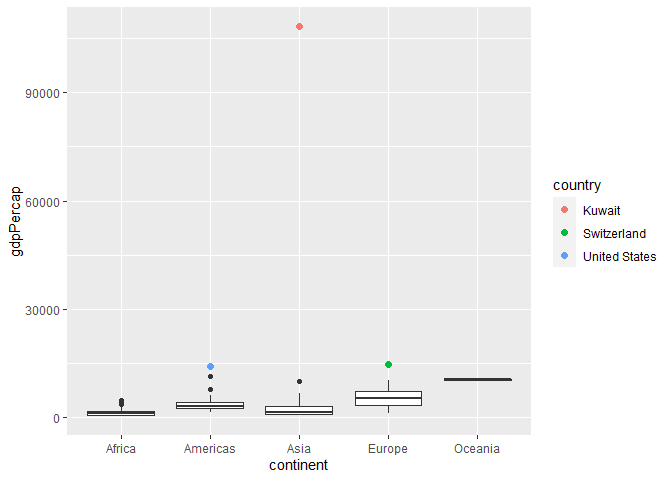
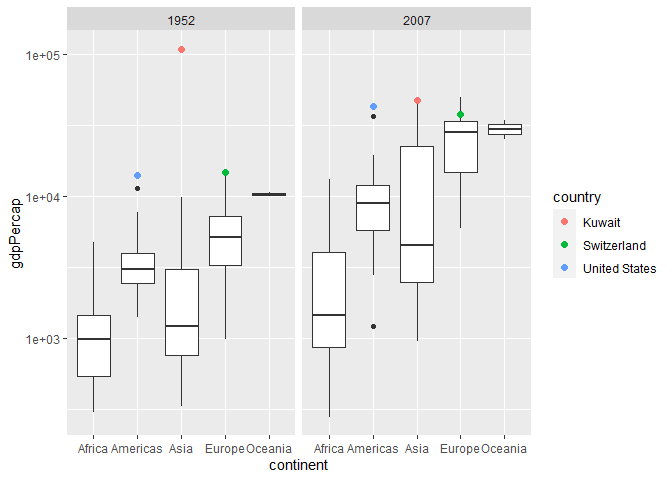
c04

diff --git a/challenges/c04-gapminder-assignment.md b/challenges/c04-gapminder-assignment.md
@@ -88,9 +88,12 @@ library(tidyverse)
 
     ## ── Attaching packages ─────────────────────────────────────── tidyverse 1.3.2 ──
     ## ✔ ggplot2 3.4.1     ✔ purrr   1.0.1
-    ## ✔ tibble  3.1.8     ✔ dplyr   1.1.0
+    ## ✔ tibble  3.2.1     ✔ dplyr   1.1.0
     ## ✔ tidyr   1.3.0     ✔ stringr 1.5.0
     ## ✔ readr   2.1.4     ✔ forcats 1.0.0
+
+    ## Warning: package 'tibble' was built under R version 4.2.3
+
     ## ── Conflicts ────────────────────────────────────────── tidyverse_conflicts() ──
     ## ✖ dplyr::filter() masks stats::filter()
     ## ✖ dplyr::lag()    masks stats::lag()
@@ -195,11 +198,12 @@ can.
 
 ``` r
 ## TASK: Create a visual of gdpPercap vs continent
-gm_min <- gapminder[gapminder$year == year_min,]
 
-gm_min %>% 
-  ggplot(aes(continent, gdpPercap)) +
-  geom_boxplot()
+gapminder %>% 
+  filter(year == year_min) %>% 
+    ggplot(aes(continent, gdpPercap)) +
+    geom_boxplot() +
+    scale_y_log10()
 ```
 
 ![](c04-gapminder-assignment_files/figure-gfm/q2-task-1.png)<!-- -->
@@ -208,8 +212,11 @@ gm_min %>%
 
 - Write your observations here
 
-When taking the mean of GDP per capita for each country in a continent,
-Oceania has the biggest value.
+Oceania has the smallest quartile range, while Asia has the biggest
+quartile range. I suspected that this was due to the number of countries
+in each continents, but it turns out that Asia and Europe has just about
+the same number of countries inside the continent, while Africa has more
+countries in the continent than Asia.
 
 **Difficulties & Approaches**:
 
@@ -224,8 +231,7 @@ outliers.
 
 ``` r
 ## TASK: Identify the outliers from q2
-
-print(gm_min %>% slice_max(gdpPercap)) 
+gapminder %>% filter(year == year_min) %>% slice_max(gdpPercap)
 ```
 
     ## # A tibble: 1 × 6
@@ -234,7 +240,7 @@ print(gm_min %>% slice_max(gdpPercap))
     ## 1 Kuwait  Asia       1952    55.6 160000   108382.
 
 ``` r
-print(gm_min[gm_min$continent == "Europe",] %>% slice_max(gdpPercap))
+gapminder %>% filter(continent == "Europe", year == year_min) %>% slice_max(gdpPercap)
 ```
 
     ## # A tibble: 1 × 6
@@ -243,7 +249,7 @@ print(gm_min[gm_min$continent == "Europe",] %>% slice_max(gdpPercap))
     ## 1 Switzerland Europe     1952    69.6 4815000    14734.
 
 ``` r
-print(gm_min[gm_min$continent == "Americas",] %>% slice_max(gdpPercap))
+gapminder %>% filter(continent == "Americas", year == year_min) %>% slice_max(gdpPercap)
 ```
 
     ## # A tibble: 1 × 6
@@ -287,14 +293,16 @@ variables; think about using different aesthetics or facets.
 
 ``` r
 ## TASK: Create a visual of gdpPercap vs continent
-gm_min %>% 
+gapminder %>% filter(year == year_min | year == year_max) %>% 
   ggplot(aes(continent, gdpPercap)) +
   geom_boxplot() +
   geom_point(
     data = . %>% filter(country %in% c("United States", "Kuwait", "Switzerland")),
     mapping = aes(color = country),
     size = 2
-  )
+  ) +
+  facet_grid(cols = vars(year)) +
+  scale_y_log10()
 ```
 
 ![](c04-gapminder-assignment_files/figure-gfm/q4-task-1.png)<!-- -->
@@ -303,9 +311,13 @@ gm_min %>%
 
 - Write your observations here
 
-According to the boxplot, outliers only exist above the mean for each
-continent. Regardless of general tendencies, Kuwait has a
-disproportionately large GDP per capita value.
+Comparing `year_min` and `year_max`, every continent shows signs of
+growth in terms of GDP per capita. For the outliers, Switzerland and
+United states saw growth in GDP per capita between `year_min` and
+`year_max`, while Kuwait actually saw a decrease. It is also interesting
+to note that on the log10 scale, the gap that the US had in `year_min`
+from the upper quartile is still maintained in `year_max`, while the gap
+for Switzerland and of course, Kuwait, has decreased.
 
 # Your Own EDA
 
